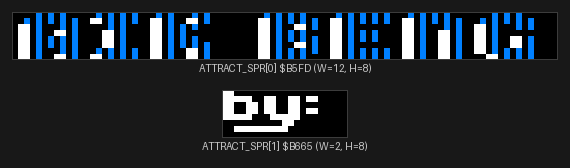
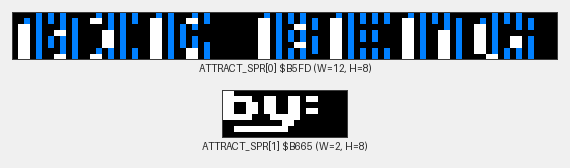
Light-background sprite grid for visible cell boundaries
The shared render_sprite_lib.compose_sprite_grid defaulted to a dark-grey
background (24,24,24) with grey labels (200,200,200). In the PDF, the
dark-grey gutter was nearly indistinguishable from the black sprite
cells, making it hard to see where one sprite ended and the next began
(most obvious on enemy_b_sprites.png, reported by the user).

Switched the default to a near-white light-grey background (240,240,240)
with dark labels (40,40,40); callers can still override via the new
label_fill parameter for dark-theme images. Regenerated all 17 grid
PNGs that use the library (enemy A/B/C, companion, special, projectile,
rescue, digit tiles, attract, extra-life, hit, player, sprite-table UI).

PDF rebuilt: 546 pages, no new LaTeX errors (164, same as before).

diff --git a/.claude/scripts/render_sprite_lib.py b/.claude/scripts/render_sprite_lib.py
@@ -157,13 +157,20 @@ def compose_sprite_grid(
     columns: int = 0,
     padding: int = 12,
     label_height: int = 18,
-    background: tuple[int, int, int] = (24, 24, 24),
+    background: tuple[int, int, int] = (240, 240, 240),
+    label_fill: tuple[int, int, int] = (40, 40, 40),
 ) -> Image.Image:
     """Tile sprite images into a single labelled grid image.
 
     If columns is 0 or <= len(sprites), lay them out in a single row.
     Otherwise wrap to multiple rows. All cells are sized to the max sprite
     dimensions so non-uniform sprite sizes still line up.
+
+    The default background is a near-white light grey so that each sprite
+    cell (rendered with a black backdrop by render_sprite_image) visually
+    pops — a dark backdrop makes cell-to-cell boundaries invisible against
+    the dark-grey sprite pixels. Override `background` + `label_fill` to
+    invert for dark-theme images.
     """
     if not sprites:
         raise ValueError("no sprites to compose")
@@ -188,7 +195,7 @@ def compose_sprite_grid(
             ly = y + spr.height + 2
             # Centre the label under the cell.
             tw = draw.textlength(lbl)
-            draw.text((lx - tw // 2, ly), lbl, fill=(200, 200, 200))
+            draw.text((lx - tw // 2, ly), lbl, fill=label_fill)
     return out
 
 
